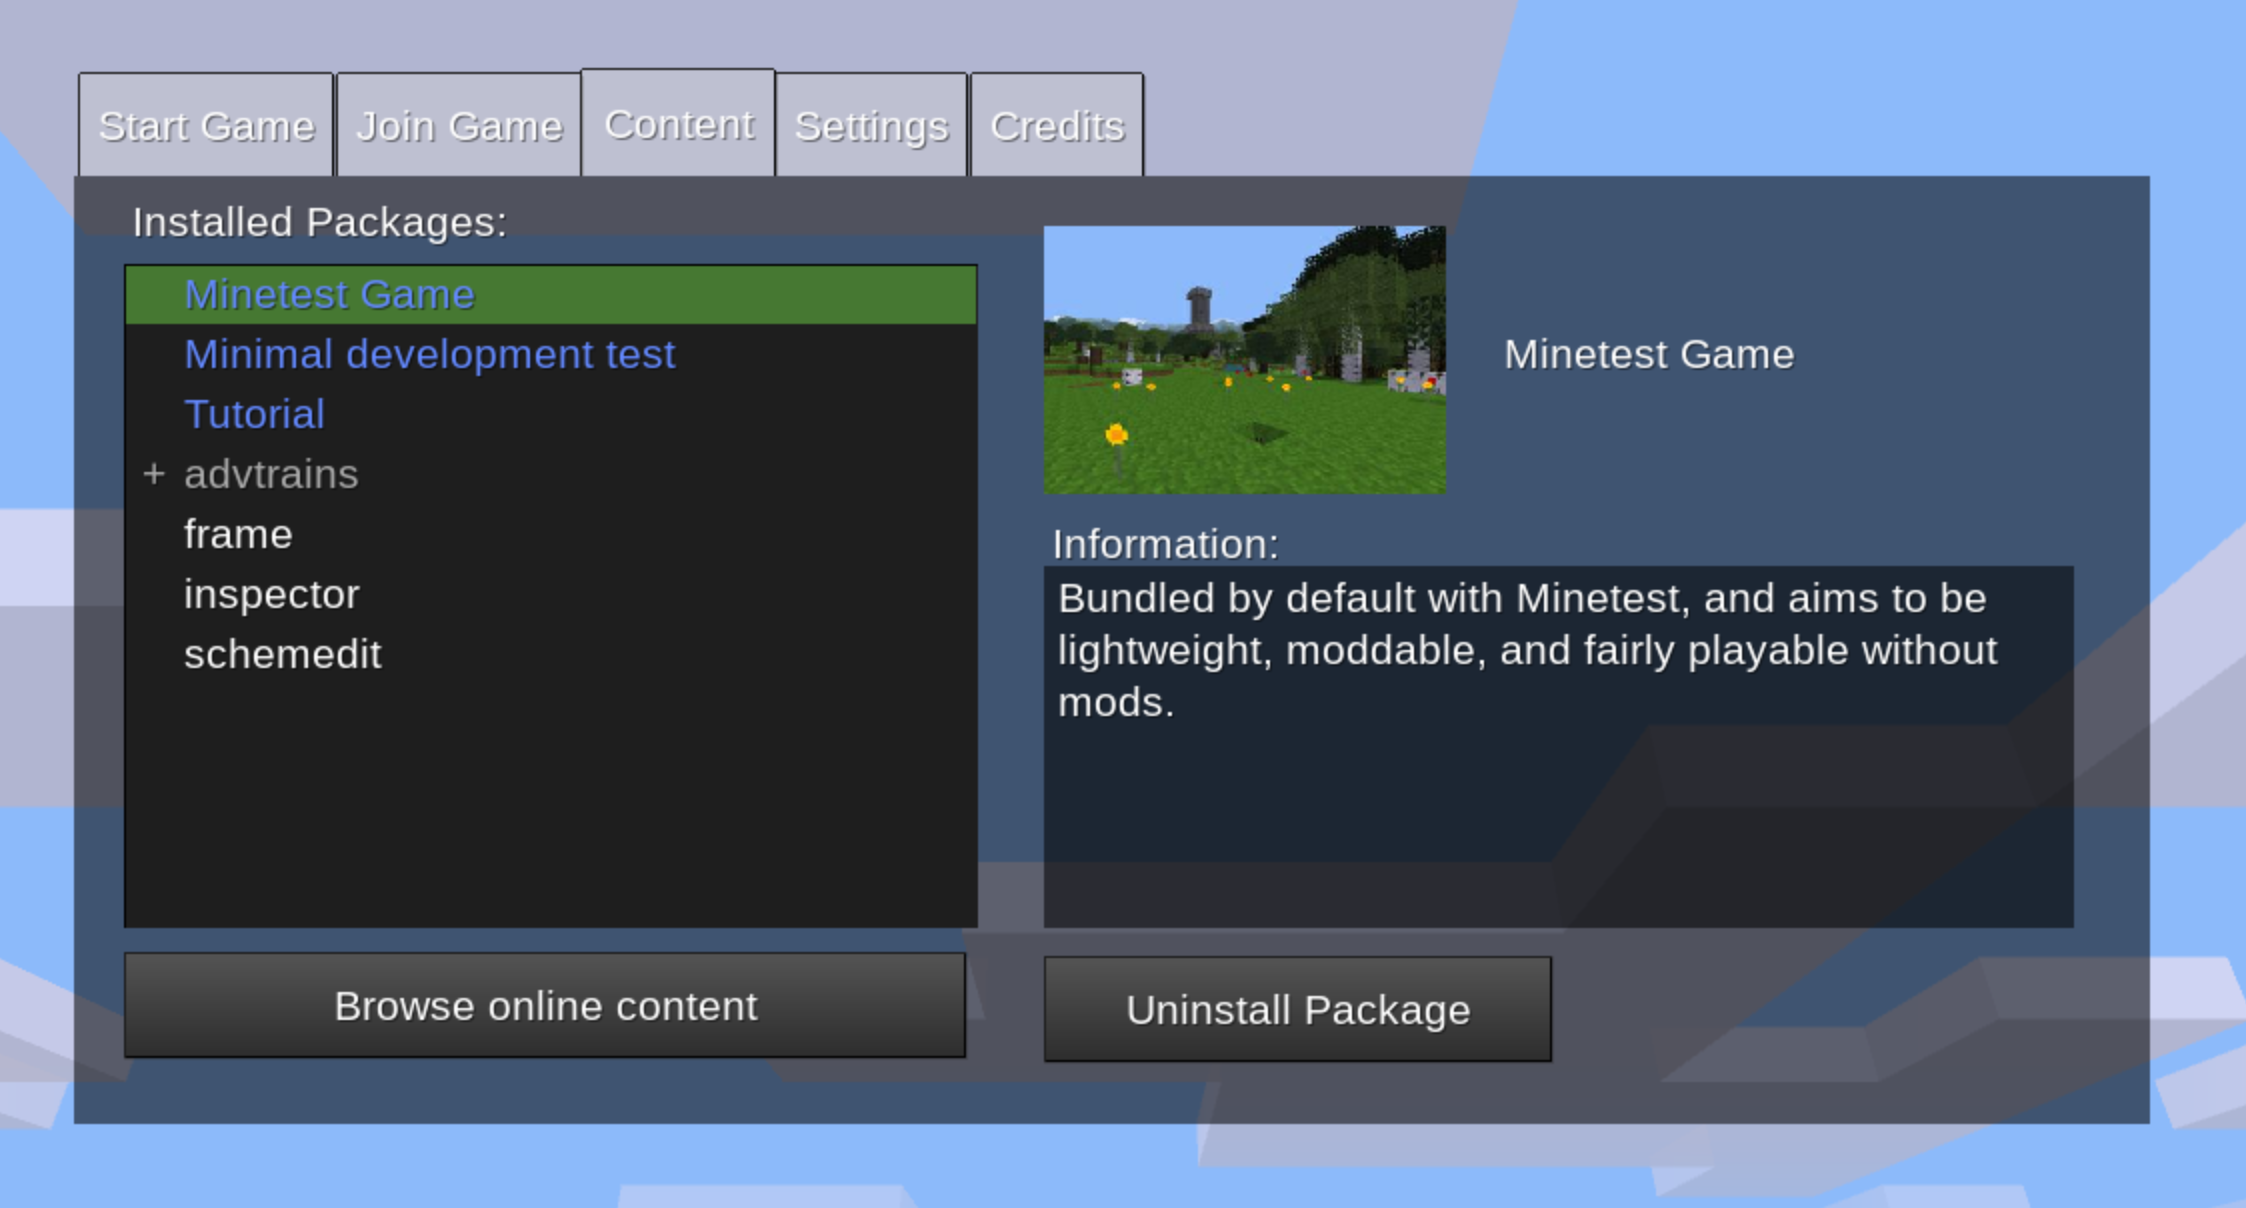
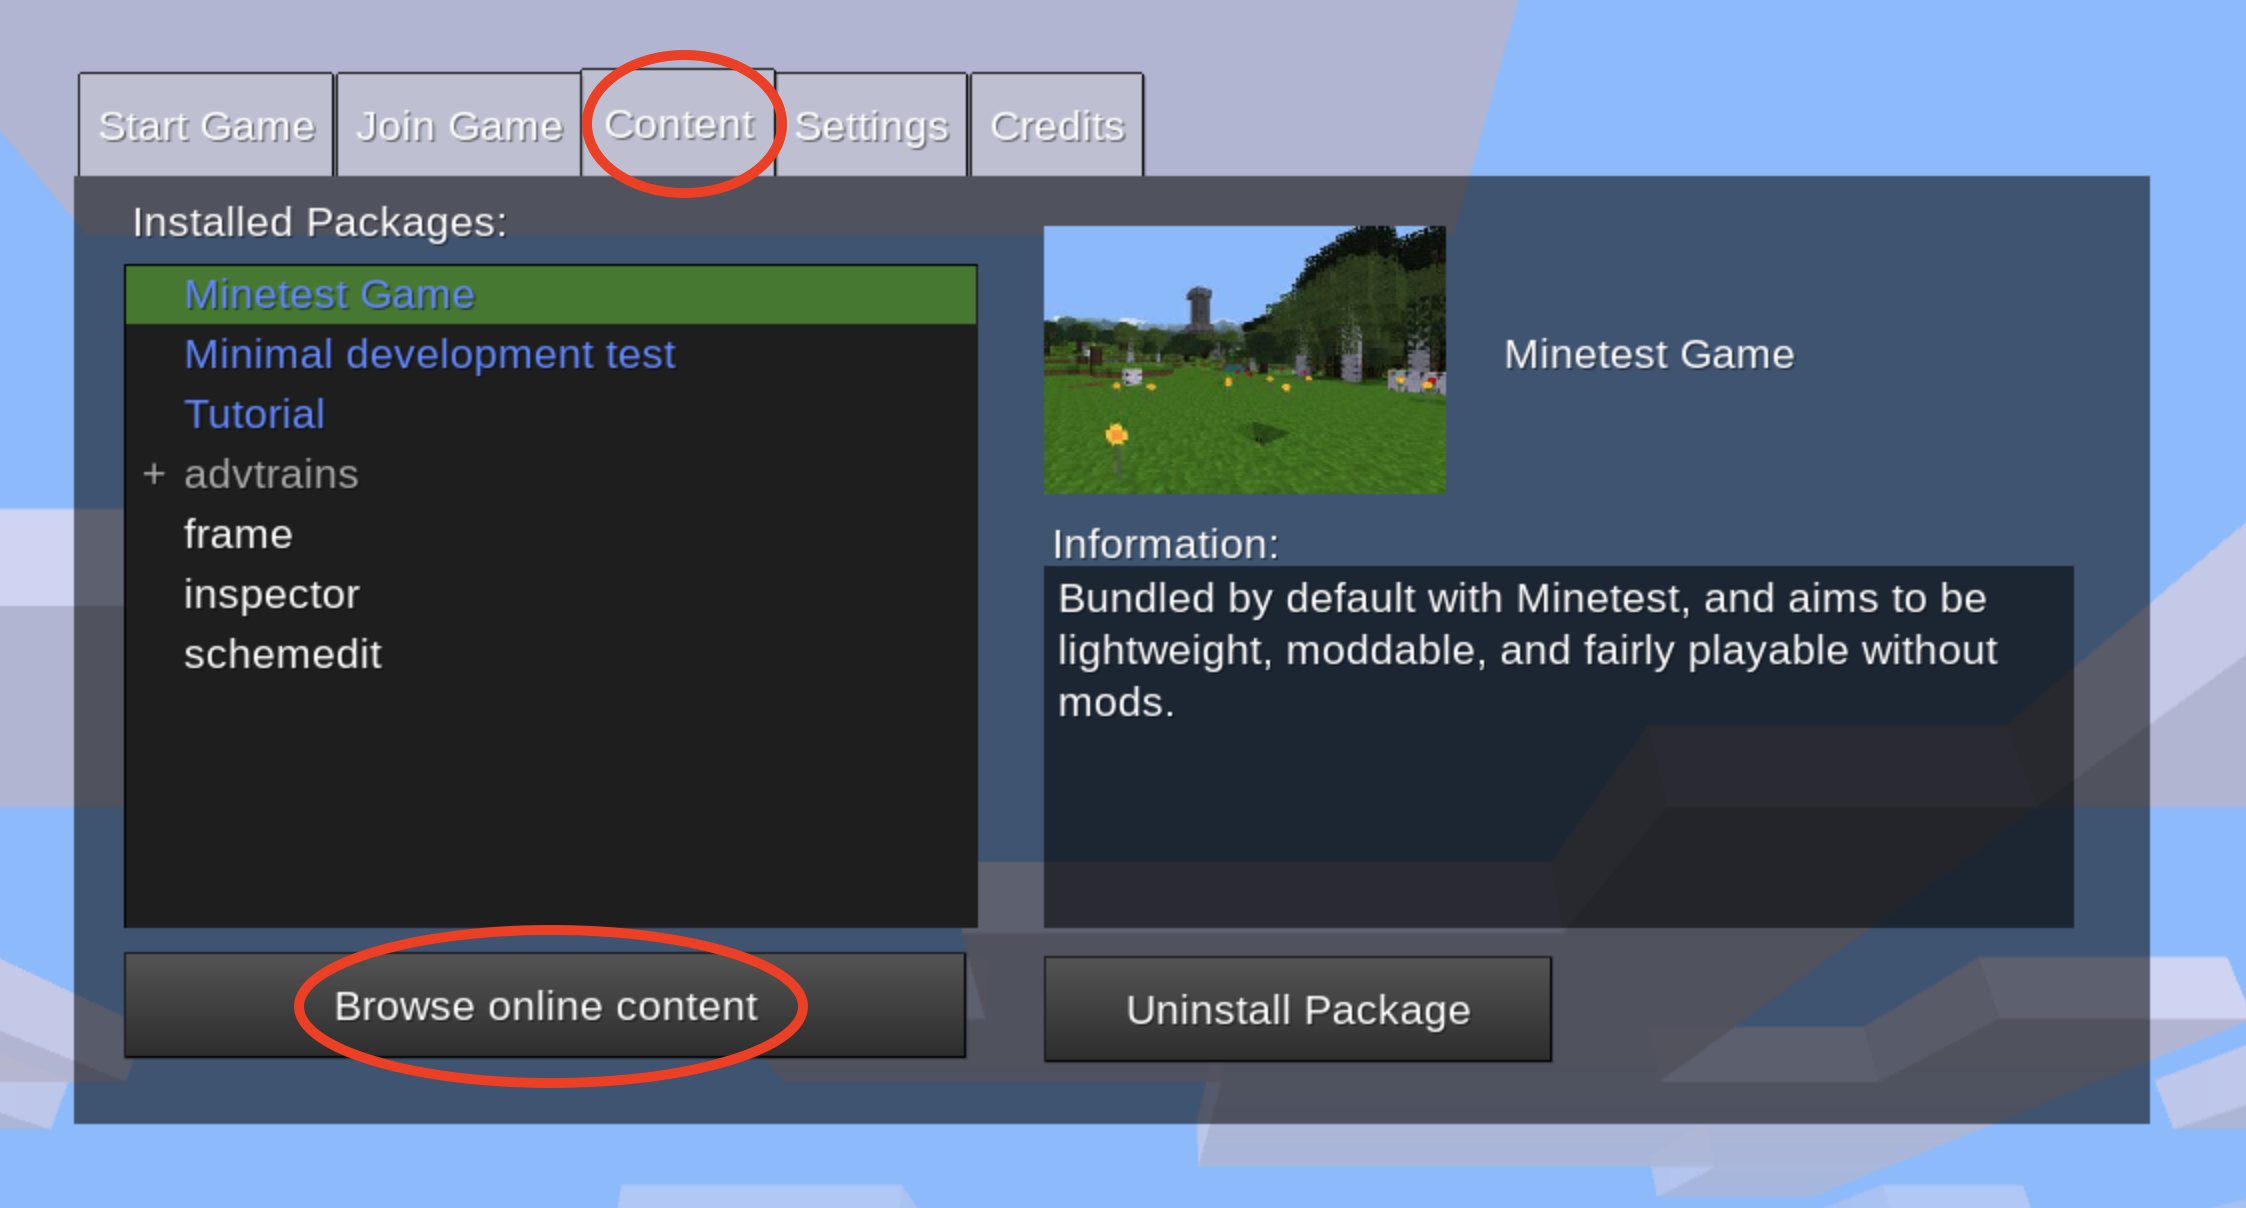
Update installation instructions

diff --git a/README.md b/README.md
@@ -4,7 +4,7 @@ Teaches quantum computing and Qiskit in a Minetest block world. Here's a [brief 
 ## Installation (the quick and easy way)
 - Download, install and run [Minetest 5.0.1](https://www.minetest.net/). Note: This site has a preferred alternative to MacOS Homebrew installation: https://www.techspot.com/downloads/5585-minetest.html
 
-- From the Content tab shown here, select *Browse Online Content*. 
+- From the *Content* tab shown here, select *Browse online content*. 
 ![Minetest Content Tab](https://github.com/JavaFXpert/QiskitBlocks/raw/master/minetest_content_tab.png)
 
 - When on the page shown shown here, search for *QiskitBlocks* and click *Install*.
